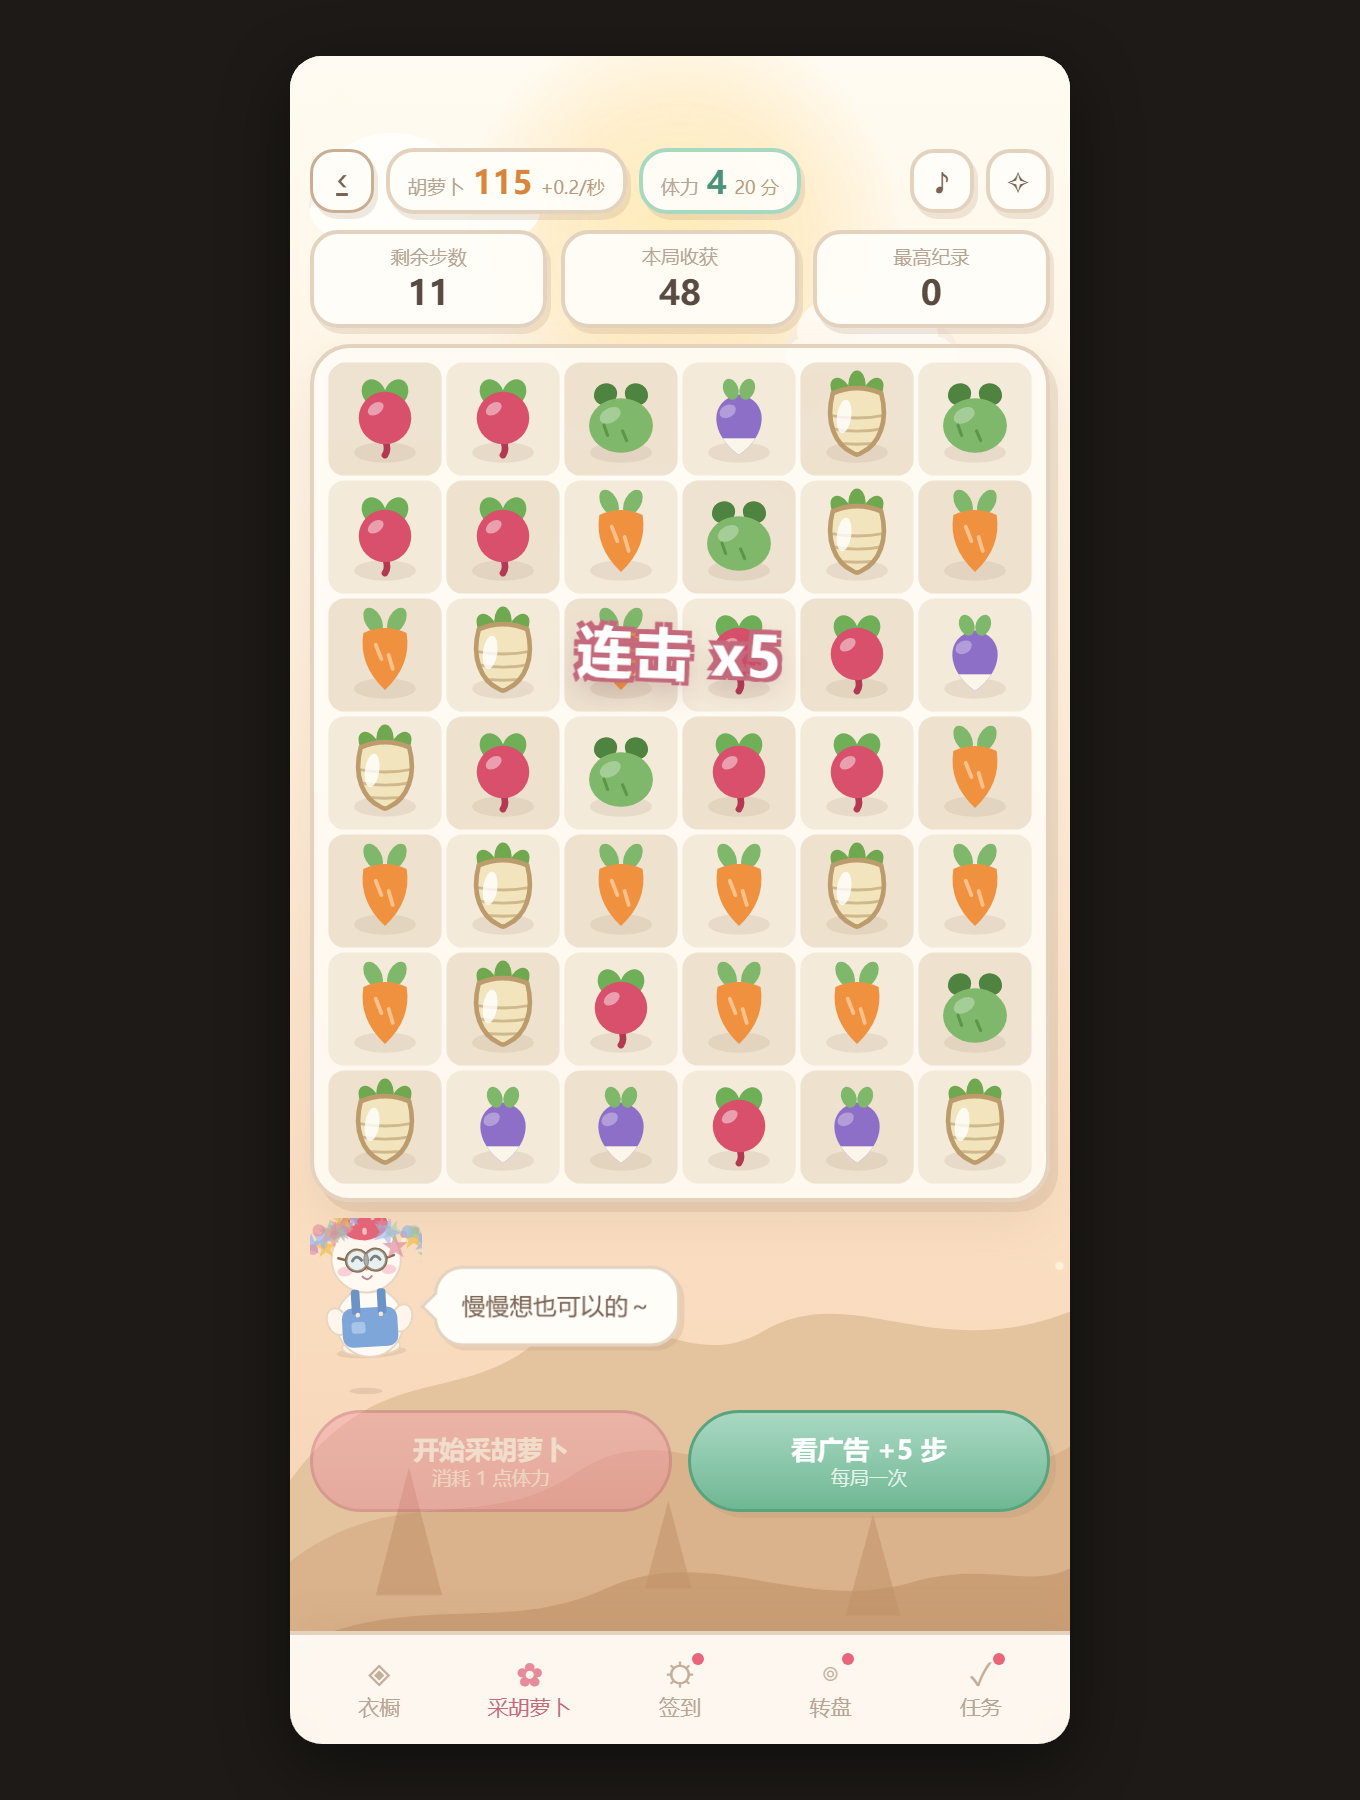
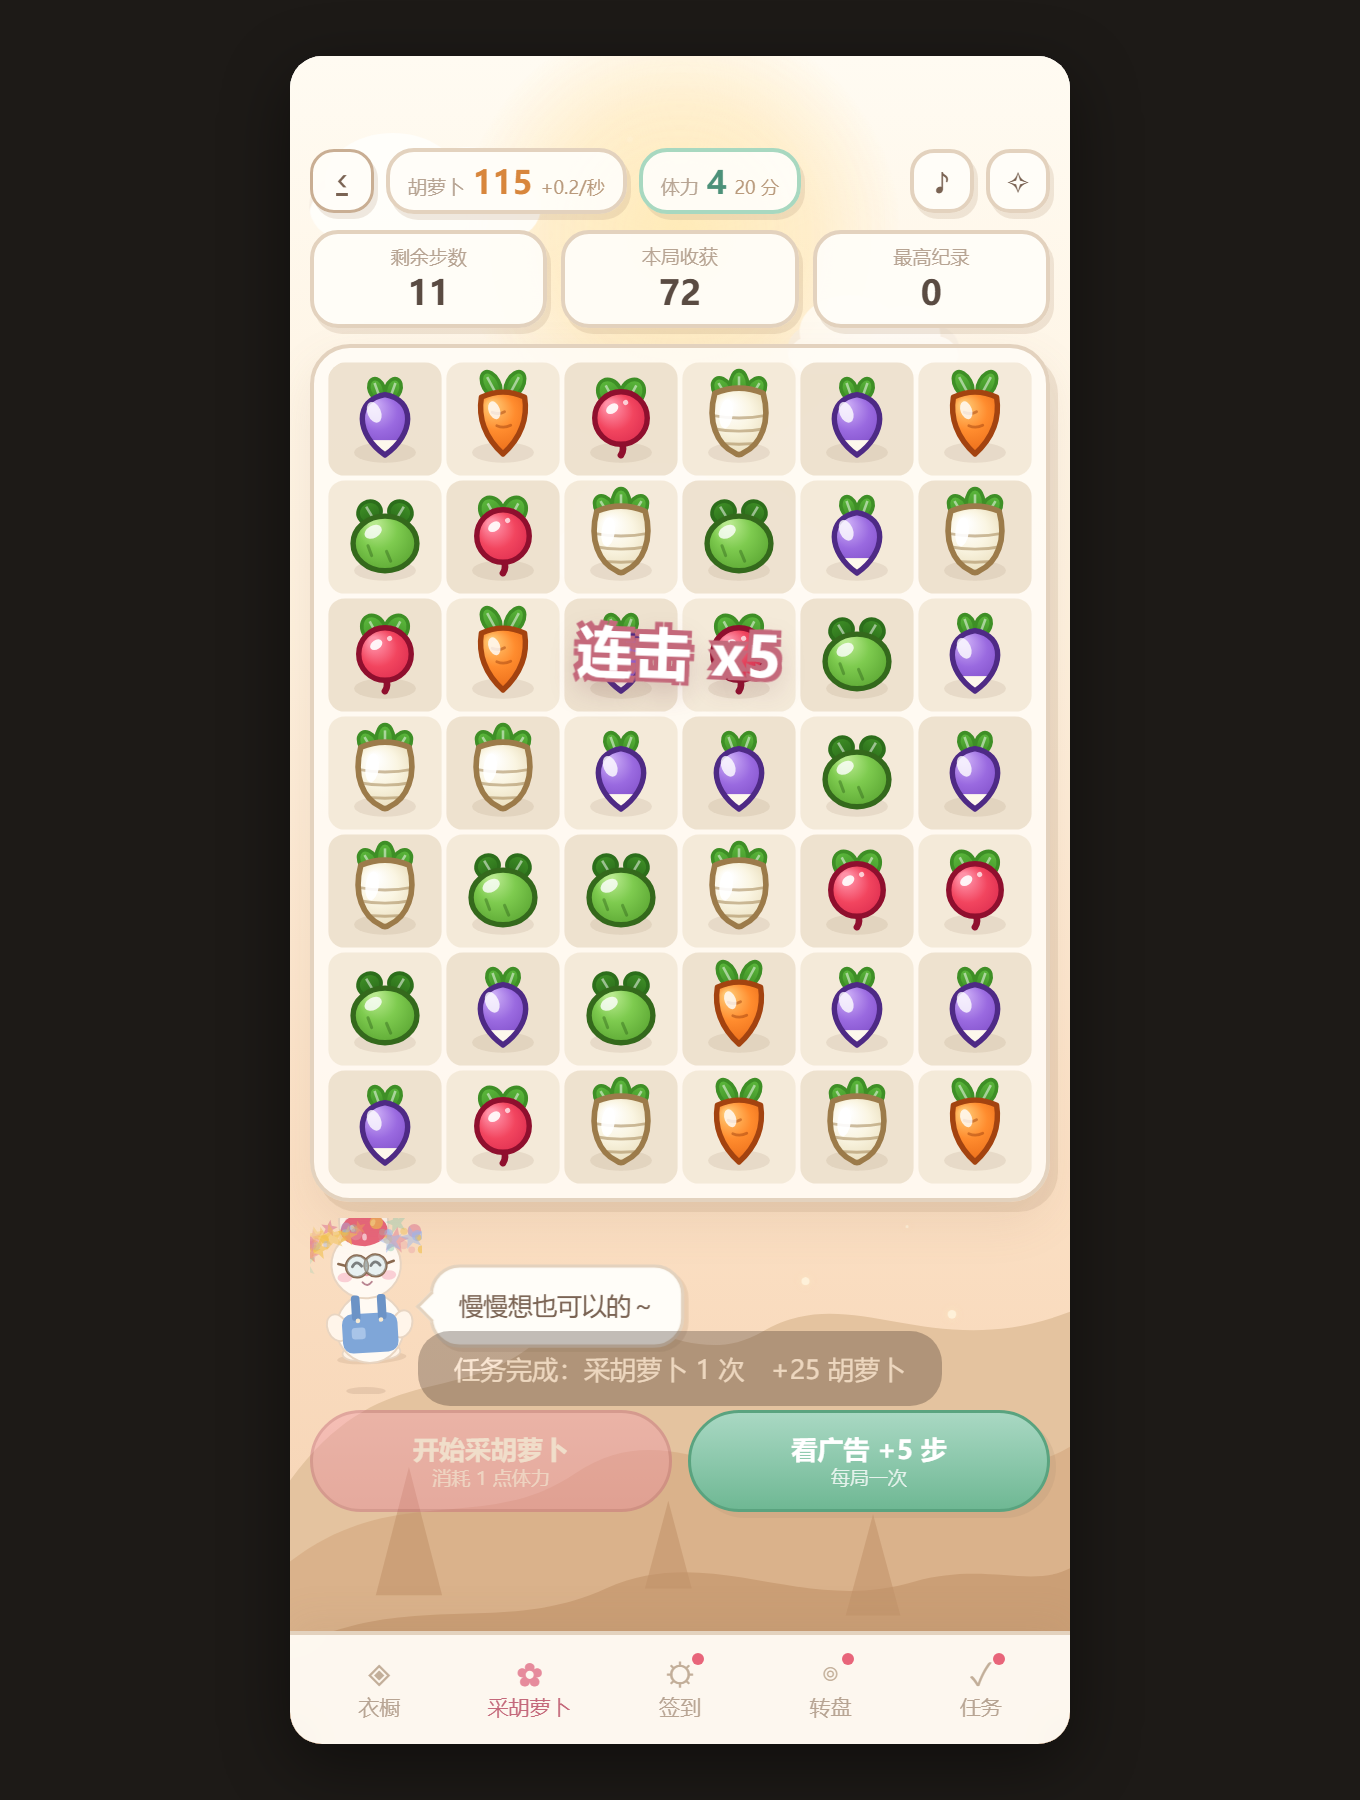
feat: 棋子重画成「多汁」卡通风（用户否掉低多边形 3D）
用户看了水果消除类爆款的截图后反馈：3D 版有点丑，要那种画风。
那张参考图其实不是实时 3D，是画出来的体积感——径向渐变 + 高光 + 描边。
这恰好是 Canvas 代码能直接画出来的，于是放弃 3D 路线（lab/ 文件保留），
把五种萝卜按这个路数全部重画。

「多汁感」的三个来源，全部代码画：
- 体积：主体径向渐变，光源固定左上，五种全场景一致才像一套素材
- 高光：左上亮斑，樱桃萝卜再加一颗小点
- 描边：比主色深得多的轮廓线——这种画风最重的识别特征，
  白萝卜的浅色本体也全靠它立住轮廓
- 辅助：底部反光弧（rim light）、叶子的渐变与中脉、横向根纹

配色整体提饱和：橙 / 米白 / 紫 / 绿 / 玫红，两两色差最小 87（阈值 70）。
调色板加 line（描边色）字段，辨识度断言同步改为
「本体色 / 暗部 / 描边至少有一个与底格拉开」——描边才是浅色棋子真正的依据。

验证：结构校验通过；回归测试 70/70 全过；
辨识度对照图（实际尺寸 + 缩到 46%）人工确认五种都分得清。

diff --git a/games/bunnycloset.html b/games/bunnycloset.html
@@ -696,15 +696,23 @@ function bg_grass(c){
    白萝卜的本体接近米白、和浅色底格对比很弱，全靠描边把轮廓交代出来，
    粒子的颜色也要单独给（pop），否则白色粒子在浅底上根本看不见。 */
 var FRUIT = [
-  { main:'#F0913F', dark:'#D8762A', light:'#FFC089', leaf:'#7FB86A' },
-  { main:'#F2E4BC', dark:'#BC9C6C', light:'#FFFFFF', leaf:'#6FA84E', pop:'#BC9C6C' },
-  { main:'#8E6FC8', dark:'#6E51A6', light:'#BCA2EA', leaf:'#7FB86A' },
-  { main:'#7FB86A', dark:'#5E9648', light:'#A8D691', leaf:'#4F8340' },
-  { main:'#D8506B', dark:'#B33952', light:'#F58CA2', leaf:'#6FAF58' }
+  { main:'#FF8C2E', light:'#FFC46E', dark:'#E56414', line:'#A34310', leaf:'#5CB83C', leafD:'#3E8F26', pop:'#E56414' },
+  { main:'#FAF5E2', light:'#FFFFFF', dark:'#E6D9B4', line:'#9C7B4A', leaf:'#5CB83C', leafD:'#3E8F26', pop:'#9C7B4A' },
+  { main:'#9A6AE0', light:'#C9A9F5', dark:'#7442BE', line:'#4E2A85', leaf:'#5CB83C', leafD:'#3E8F26', pop:'#7442BE' },
+  { main:'#7ECB4F', light:'#B7E98D', dark:'#55A02E', line:'#34691C', leaf:'#3E8F26', leafD:'#2C6E1B', pop:'#55A02E' },
+  { main:'#F2455F', light:'#FF92A8', dark:'#D01E45', line:'#8F0F2E', leaf:'#5CB83C', leafD:'#3E8F26', pop:'#D01E45' }
 ];
 
-/* 白萝卜的轮廓要填、要描边、还要当裁切区，画三遍，所以单独抽一个函数。
-   底部特意收成一小段细根，免得整块看成「一格空位」 */
+/* 五种轮廓。白萝卜要填、要裁切、要描边共三遍，单独抽出来 */
+function carrotPath(c){
+  c.beginPath();
+  c.moveTo(-8.4, -8.5);
+  c.quadraticCurveTo(-10.4, 4, 0, 13.6);
+  c.quadraticCurveTo(10.4, 4, 8.4, -8.5);
+  c.quadraticCurveTo(0, -12.4, -8.4, -8.5);
+  c.closePath();
+}
+/* 白萝卜的轮廓。底部特意收成一小段细根，免得整块看成「一格空位」 */
 function daikonPath(c){
   c.beginPath();
   c.moveTo(-9.4, -10);
@@ -713,6 +721,85 @@ function daikonPath(c){
   c.bezierCurveTo(8.6, 10, 12.4, 1, 9.4, -10);
   c.quadraticCurveTo(0, -14, -9.4, -10);
   c.closePath();
+}
+function dropPath(c){
+  c.beginPath();
+  c.moveTo(0, 14);
+  c.bezierCurveTo(-11.5, 6, -12, -7.5, 0, -9.5);
+  c.bezierCurveTo(12, -7.5, 11.5, 6, 0, 14);
+  c.closePath();
+}
+function eggPath(c){
+  c.beginPath();
+  c.ellipse(0, 2.5, 12.4, 10.6, 0, 0, Math.PI * 2);
+}
+function ballPath(c){
+  c.beginPath();
+  c.arc(0, -0.4, 10.2, 0, Math.PI * 2);
+}
+
+/* ============================================================
+   「多汁感」的三个来源，全部代码画（参考水果消除类爆款画风）：
+   1. 体积 —— 主体径向渐变，光源固定左上，全场景一致才像一套素材
+   2. 高光 —— 左上亮斑，有的再加一颗小点
+   3. 描边 —— 比主色深得多的轮廓线，这种画风最重的识别特征；
+      白萝卜的浅色本体也全靠它立住轮廓
+   ============================================================ */
+function glossFill(c, pathFn, f){
+  pathFn(c);
+  var g = c.createRadialGradient(-4.5, -5.5, 1.5, 0, 1, 15.5);
+  g.addColorStop(0, f.light);
+  g.addColorStop(0.42, f.main);
+  g.addColorStop(1, f.dark);
+  c.fillStyle = g;
+  c.fill();
+}
+function glossOutline(c, pathFn, f, w){
+  pathFn(c);
+  c.strokeStyle = f.line;
+  c.lineWidth = w || 2.1;
+  c.lineJoin = 'round';
+  c.stroke();
+}
+/* 底部反光：贴着轮廓下缘内侧的一条浅色弧，让物体「坐」在光里 */
+function rimLight(c, pathFn, color, cy, rx){
+  c.save();
+  pathFn(c); c.clip();
+  c.strokeStyle = color;
+  c.lineWidth = 2.8;
+  c.beginPath();
+  c.ellipse(0, cy, rx || 11.4, rx ? rx * 0.56 : 6.4, 0, Math.PI * 0.15, Math.PI * 0.85);
+  c.stroke();
+  c.restore();
+}
+function shine(c, x, y, rx, ry, rot, a){
+  c.fillStyle = 'rgba(255,255,255,' + (a || 0.85) + ')';
+  c.beginPath();
+  c.ellipse(x, y, rx, ry, rot || -0.5, 0, Math.PI * 2);
+  c.fill();
+}
+/* 叶子：渐变 + 描边 + 中脉 */
+function glossyLeaf(c, x, y, rx, ry, rot, f){
+  c.save();
+  c.translate(x, y);
+  c.rotate(rot);
+  c.beginPath();
+  c.ellipse(0, 0, rx, ry, 0, 0, Math.PI * 2);
+  var g = c.createLinearGradient(0, -ry, 0, ry);
+  g.addColorStop(0, f.leaf);
+  g.addColorStop(1, f.leafD);
+  c.fillStyle = g;
+  c.fill();
+  c.strokeStyle = f.leafD;
+  c.lineWidth = 1.4;
+  c.stroke();
+  c.strokeStyle = 'rgba(255,255,255,.5)';
+  c.lineWidth = 1;
+  c.beginPath();
+  c.moveTo(0, -ry * 0.6);
+  c.lineTo(0, ry * 0.6);
+  c.stroke();
+  c.restore();
 }
 
 function drawFruit(c, kind, cx, cy, S, alpha){
@@ -726,82 +813,75 @@ function drawFruit(c, kind, cx, cy, S, alpha){
   c.fillStyle = 'rgba(150,118,92,.14)';
   c.beginPath(); c.ellipse(0, 13, 12, 4, 0, 0, Math.PI * 2); c.fill();
 
-  if(kind === 0){                       /* 胡萝卜：最细最长的锥形 + 羽状叶 */
-    c.fillStyle = f.leaf;
-    c.beginPath(); c.ellipse(-4.6, -13.4, 3.2, 5.4, -0.5, 0, Math.PI * 2); c.fill();
-    c.beginPath(); c.ellipse(4.6, -13.4, 3.2, 5.4, 0.5, 0, Math.PI * 2); c.fill();
-    c.fillStyle = f.main;
-    c.beginPath();
-    c.moveTo(-8.4, -8.5);
-    c.quadraticCurveTo(-10.4, 4, 0, 13.6);
-    c.quadraticCurveTo(10.4, 4, 8.4, -8.5);
-    c.quadraticCurveTo(0, -12.4, -8.4, -8.5);
-    c.closePath(); c.fill();
-    c.strokeStyle = f.light; c.lineWidth = 1.5; c.lineCap = 'round';
-    c.beginPath(); c.moveTo(-3.6, -4); c.lineTo(-1.4, 1.6); c.stroke();
-    c.beginPath(); c.moveTo(1.4, 0); c.lineTo(3, 5.4); c.stroke();
+  if(kind === 0){                       /* 胡萝卜：最细最长的锥形 */
+    glossyLeaf(c, -4.6, -13.4, 3.2, 5.4, -0.5, f);
+    glossyLeaf(c, 4.6, -13.4, 3.2, 5.4, 0.5, f);
+    glossFill(c, carrotPath, f);
+    rimLight(c, carrotPath, 'rgba(255,255,255,.22)', 9.5, 7.5);
+    /* 萝卜特有的横向根纹 */
+    c.save();
+    carrotPath(c); c.clip();
+    c.strokeStyle = 'rgba(163,67,16,.5)';
+    c.lineWidth = 1.1; c.lineCap = 'round';
+    c.beginPath(); c.moveTo(-4.2, -2.6); c.quadraticCurveTo(-1.6, -1.6, 0.6, -2.8); c.stroke();
+    c.beginPath(); c.moveTo(-2.4, 2.6); c.quadraticCurveTo(0.4, 3.8, 3, 2.4); c.stroke();
+    c.restore();
+    glossOutline(c, carrotPath, f);
+    shine(c, -3.4, -3.4, 2.2, 3.6, -0.35, 0.8);
 
   } else if(kind === 1){                 /* 白萝卜：最宽的胖柱形，底部收细根 */
-    /* 叶冠先画：米白的身体和底格对比天生就弱，
-       得靠深绿的叶子先把「这是一棵菜」交代清楚 */
-    c.fillStyle = f.leaf;
-    c.beginPath(); c.ellipse(-6.4, -11.4, 3.4, 5, -0.55, 0, Math.PI * 2); c.fill();
-    c.beginPath(); c.ellipse(0, -13.2, 3.4, 5.6, 0, 0, Math.PI * 2); c.fill();
-    c.beginPath(); c.ellipse(6.4, -11.4, 3.4, 5, 0.55, 0, Math.PI * 2); c.fill();
-
-    daikonPath(c); c.fillStyle = f.main; c.fill();
+    /* 叶冠先画：米白身体对比弱，靠深绿叶子先交代「这是一棵菜」 */
+    glossyLeaf(c, -6.4, -11.4, 3.4, 5, -0.55, f);
+    glossyLeaf(c, 0, -13.2, 3.4, 5.6, 0, f);
+    glossyLeaf(c, 6.4, -11.4, 3.4, 5, 0.55, f);
+    glossFill(c, daikonPath, f);
     c.save();
     daikonPath(c); c.clip();
-    /* 萝卜特有的横向根纹 —— 这一条是把它和「空着的格子」分开的关键 */
-    c.strokeStyle = 'rgba(186,158,112,.62)'; c.lineWidth = 1.1;
+    c.strokeStyle = 'rgba(156,123,74,.5)';
+    c.lineWidth = 1.1;
     [-1.5, 3.6, 8.7].forEach(function(y){
       c.beginPath(); c.moveTo(-11, y); c.quadraticCurveTo(0, y + 2.2, 11, y); c.stroke();
     });
-    c.fillStyle = 'rgba(255,255,255,.8)';
-    c.beginPath(); c.ellipse(-5, -1, 2.8, 6.5, 0.14, 0, Math.PI * 2); c.fill();
     c.restore();
-    daikonPath(c); c.strokeStyle = f.dark; c.lineWidth = 1.8; c.stroke();
+    rimLight(c, daikonPath, 'rgba(255,255,255,.45)', 13, 11);
+    glossOutline(c, daikonPath, f, 2.2);
+    shine(c, -5, -2, 2.6, 5.6, 0.12, 0.9);
 
   } else if(kind === 2){                 /* 紫萝卜：上宽下尖的水滴 + 白尖 */
-    c.fillStyle = f.main;
-    c.beginPath();
-    c.moveTo(0, 14);
-    c.bezierCurveTo(-11.5, 6, -12, -7.5, 0, -9.5);
-    c.bezierCurveTo(12, -7.5, 11.5, 6, 0, 14);
-    c.closePath(); c.fill();
+    glossyLeaf(c, -3.2, -11.6, 2.9, 4.2, -0.35, f);
+    glossyLeaf(c, 3.2, -11.6, 2.9, 4.2, 0.35, f);
+    glossFill(c, dropPath, f);
     c.save();
-    c.clip();
-    c.fillStyle = '#FBF5EA';             /* 根部白尖 */
-    c.fillRect(-14, 7.5, 28, 9);
+    dropPath(c); c.clip();
+    c.fillStyle = '#FDF8EC';
+    c.fillRect(-14, 8.2, 28, 9);
     c.restore();
-    c.fillStyle = 'rgba(255,255,255,.32)';
-    c.beginPath(); c.ellipse(-4.4, -3, 3.4, 2.4, -0.5, 0, Math.PI * 2); c.fill();
-    c.fillStyle = f.leaf;
-    c.beginPath(); c.ellipse(-3.2, -11.6, 2.9, 4.2, -0.35, 0, Math.PI * 2); c.fill();
-    c.beginPath(); c.ellipse(3.2, -11.6, 2.9, 4.2, 0.35, 0, Math.PI * 2); c.fill();
+    glossOutline(c, dropPath, f);
+    shine(c, -4.2, -2.6, 2.6, 4.2, -0.4, 0.8);
 
-  } else if(kind === 3){                 /* 青萝卜：最宽最矮的扁圆蛋形 + 两片圆叶 */
-    c.fillStyle = f.leaf;
-    c.beginPath(); c.ellipse(-6, -9.6, 4.6, 4.2, -0.55, 0, Math.PI * 2); c.fill();
-    c.beginPath(); c.ellipse(6, -9.6, 4.6, 4.2, 0.55, 0, Math.PI * 2); c.fill();
-    c.fillStyle = f.main;
-    c.beginPath(); c.ellipse(0, 2.5, 12.4, 10.6, 0, 0, Math.PI * 2); c.fill();
-    c.fillStyle = 'rgba(255,255,255,.3)';
-    c.beginPath(); c.ellipse(-4.2, -1.4, 4.4, 2.8, -0.5, 0, Math.PI * 2); c.fill();
-    c.strokeStyle = f.dark; c.lineWidth = 1.2; c.lineCap = 'round';
-    c.beginPath(); c.moveTo(-6.6, 2.4); c.lineTo(-5.2, 6.4); c.stroke();
-    c.beginPath(); c.moveTo(0.6, 4.6); c.lineTo(2.2, 8.4); c.stroke();
+  } else if(kind === 3){                 /* 青萝卜：最宽最矮的扁圆蛋形 */
+    glossyLeaf(c, -6, -9.6, 4.6, 4.2, -0.55, f);
+    glossyLeaf(c, 6, -9.6, 4.6, 4.2, 0.55, f);
+    glossFill(c, eggPath, f);
+    rimLight(c, eggPath, 'rgba(255,255,255,.3)', 11.8, 11);
+    glossOutline(c, eggPath, f);
+    c.strokeStyle = 'rgba(52,105,28,.45)';
+    c.lineWidth = 1.2; c.lineCap = 'round';
+    c.beginPath(); c.moveTo(-6.6, 3.4); c.lineTo(-5.2, 7.2); c.stroke();
+    c.beginPath(); c.moveTo(0.6, 5.6); c.lineTo(2.2, 9.4); c.stroke();
+    shine(c, -4.6, -2, 3.6, 2.4, -0.5, 0.8);
 
-  } else {                               /* 樱桃萝卜：最小的小球 + 细长小尾 + 两片大叶 */
-    c.fillStyle = f.leaf;
-    c.beginPath(); c.ellipse(-4.4, -10.2, 4.4, 5.4, -0.5, 0, Math.PI * 2); c.fill();
-    c.beginPath(); c.ellipse(4.4, -10.2, 4.4, 5.4, 0.5, 0, Math.PI * 2); c.fill();
-    c.strokeStyle = f.dark; c.lineWidth = 2.6; c.lineCap = 'round';
+  } else {                               /* 樱桃萝卜：小球 + 细长小尾 + 两片大叶 */
+    glossyLeaf(c, -4.4, -10.2, 4.4, 5.4, -0.5, f);
+    glossyLeaf(c, 4.4, -10.2, 4.4, 5.4, 0.5, f);
+    c.strokeStyle = f.line;
+    c.lineWidth = 2.6; c.lineCap = 'round';
     c.beginPath(); c.moveTo(0, 8); c.quadraticCurveTo(1.6, 12, 0, 14); c.stroke();
-    c.fillStyle = f.main;
-    c.beginPath(); c.arc(0, -0.4, 10.2, 0, Math.PI * 2); c.fill();
-    c.fillStyle = 'rgba(255,255,255,.45)';
-    c.beginPath(); c.ellipse(-3.6, -4, 3.4, 2.2, -0.6, 0, Math.PI * 2); c.fill();
+    glossFill(c, ballPath, f);
+    rimLight(c, ballPath, 'rgba(255,255,255,.28)', 8.8, 9.2);
+    glossOutline(c, ballPath, f);
+    shine(c, -3.4, -4, 2.6, 1.8, -0.6, 0.9);
+    shine(c, 1.8, -6.4, 1, 1, 0, 0.7);
   }
   c.restore();
 }
@@ -2280,7 +2360,7 @@ window.__closet = {
   startRound: startRound,
   takeHarvest: takeRoundHarvest,
   /* 棋子配色：给人眼可辨性做自动化校验用 */
-  palette: function(){ return FRUIT.map(function(f){ return { main:f.main, dark:f.dark, pop:f.pop || f.main }; }); },
+  palette: function(){ return FRUIT.map(function(f){ return { main:f.main, dark:f.dark, line:f.line, pop:f.pop || f.main }; }); },
   energy: function(){ return { used: S.energyAdUsed || 0, max: ENERGY_AD_MAX, add: ENERGY_AD }; },
   tickBuddy: function(dt){ resizeBuddy(); drawBuddy(dt || 1 / 60); return BW + 'x' + BH; },
   closeSheet: closeSheet,

diff --git a/tests/closet-regression.html b/tests/closet-regression.html
@@ -408,9 +408,9 @@ const sleep = ms => new Promise(r => setTimeout(r, ms));
   const CELL_BG = '#F3E8D7';
   let worstTile = { d: 999, which: '', by: '' };
   pal.forEach(function(f){
-    const dm = dist(f.main, CELL_BG), dd = dist(f.dark, CELL_BG);
-    const best = Math.max(dm, dd);
-    if(best < worstTile.d) worstTile = { d: best, which: f.main, by: dm >= dd ? '本体色' : '描边色' };
+    const dm = dist(f.main, CELL_BG), dd = dist(f.dark, CELL_BG), dl = dist(f.line, CELL_BG);
+    const best = Math.max(dm, dd, dl);
+    if(best < worstTile.d) worstTile = { d: best, which: f.main, by: dl >= dm && dl >= dd ? '描边色' : (dm >= dd ? '本体色' : '暗部色') };
   });
   ok(worstTile.d >= 60,
      '每种棋子都分得出来（最难的一种 ' + worstTile.which + ' 靠' + worstTile.by +

diff --git a/README.md b/README.md
@@ -75,6 +75,8 @@
 - 右上角 `♪` 是声音设置，背景音乐与音效可以分开关
 - 点顶部的**体力**胶囊可以看广告补 3 点（每天 3 次）；体力不够时会直接弹出这个面板，而不是干弹一句提示
 - **兔子、24 件道具、全部背景都是 Canvas 代码绘制，没有任何图片文件**
+- 棋子是「多汁」卡通风：径向渐变体积 + 左上高光 + 深色描边，全部代码画
+  （参照水果消除类爆款的美术路数——那类画面不是 3D，是画出来的体积感）
 - 未解锁的道具会淡显并标出稀有度——看得见、想要，但还不是你的
 
 **收益永不丢失**：结算面板不管怎么关（点「收下胡萝卜」、点「先去忙别的」、
